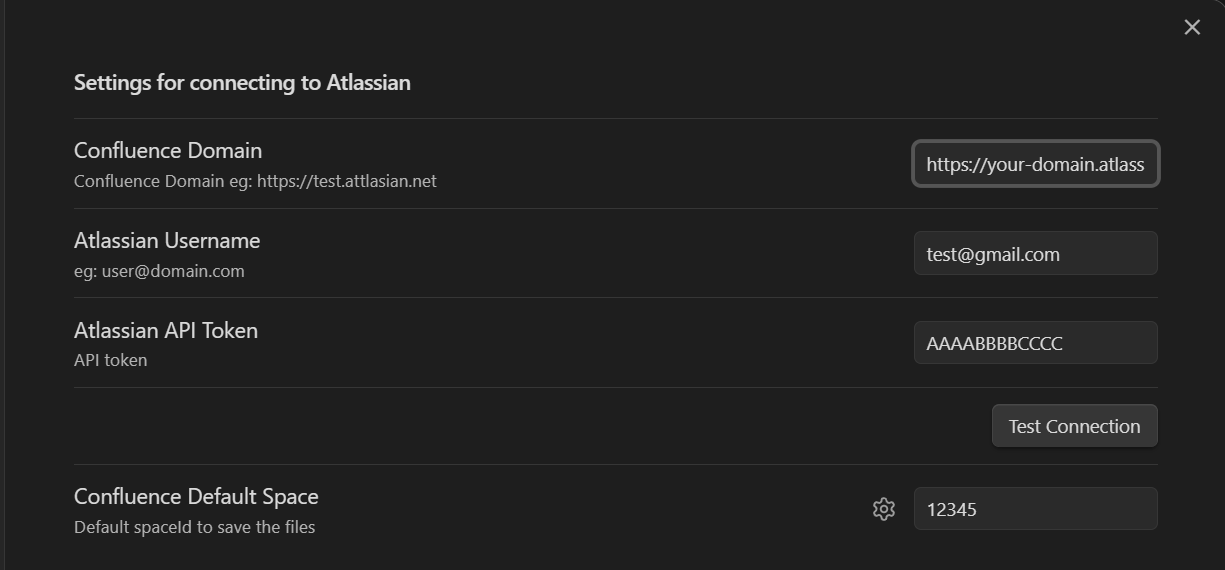
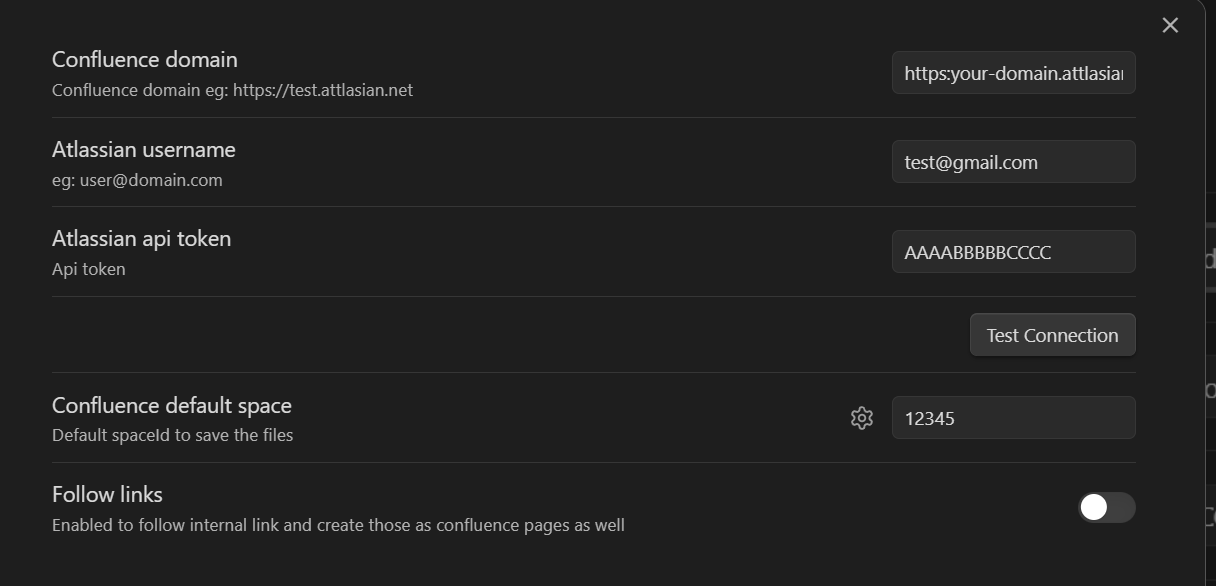
OC-14: Review changes. (#18)

diff --git a/lib/settings.ts b/lib/settings.ts
@@ -1,14 +1,14 @@
 import { App, Notice, PluginSettingTab, Setting } from "obsidian";
-import Obs2ConFluxPlugin from "main";
+import ConfluenceLinkPlugin from "main";
 
 import ConfluenceClient from "./confluence/client";
 import SpaceSearchModal from "./modal";
 import { isFloat } from "./utils";
 
-export class Obs2ConFluxSettingsTab extends PluginSettingTab {
-	plugin: Obs2ConFluxPlugin;
+export class ConfluenceLinkSettingsTab extends PluginSettingTab {
+	plugin: ConfluenceLinkPlugin;
 
-	constructor(app: App, plugin: Obs2ConFluxPlugin) {
+	constructor(app: App, plugin: ConfluenceLinkPlugin) {
 		super(app, plugin);
 		this.plugin = plugin;
 	}
@@ -17,13 +17,9 @@ export class Obs2ConFluxSettingsTab extends PluginSettingTab {
 		const { containerEl } = this;
 		containerEl.empty();
 
-		containerEl.createEl("h2", {
-			text: "Settings for connecting to Atlassian",
-		});
-
 		new Setting(containerEl)
-			.setName("Confluence Domain")
-			.setDesc("Confluence Domain eg: https://test.attlasian.net")
+			.setName("Confluence domain")
+			.setDesc("Confluence domain eg: https://test.attlasian.net")
 			.addText((text) =>
 				text
 					.setValue(this.plugin.settings.confluenceDomain)
@@ -34,7 +30,7 @@ export class Obs2ConFluxSettingsTab extends PluginSettingTab {
 			);
 
 		new Setting(containerEl)
-			.setName("Atlassian Username")
+			.setName("Atlassian username")
 			.setDesc("eg: user@domain.com")
 			.addText((text) => {
 				text.setValue(this.plugin.settings.atlassianUsername).onChange(
@@ -46,8 +42,8 @@ export class Obs2ConFluxSettingsTab extends PluginSettingTab {
 			});
 
 		new Setting(containerEl)
-			.setName("Atlassian API Token")
-			.setDesc("API token")
+			.setName("Atlassian api token")
+			.setDesc("Api token")
 			.addText((text) => {
 				text.setValue(this.plugin.settings.atlassianApiToken).onChange(
 					async (value) => {
@@ -99,7 +95,7 @@ export class Obs2ConFluxSettingsTab extends PluginSettingTab {
 		);
 
 		new Setting(containerEl)
-			.setName("Confluence Default Space")
+			.setName("Confluence default space")
 			.setDesc("Default spaceId to save the files")
 			.addExtraButton((button) => {
 				button
@@ -144,7 +140,7 @@ export class Obs2ConFluxSettingsTab extends PluginSettingTab {
 					});
 			})
 			.addText((text) => {
-				let wait: NodeJS.Timeout | null = null;
+				let wait: number | null = null;
 
 				text.setValue(
 					this.plugin.settings.confluenceDefaultSpaceId
@@ -154,10 +150,10 @@ export class Obs2ConFluxSettingsTab extends PluginSettingTab {
 						await this.plugin.saveSettings();
 					} else {
 						if (wait) {
-							clearTimeout(wait);
+							window.clearTimeout(wait);
 						}
 
-						wait = setTimeout(() => {
+						wait = window.setTimeout(() => {
 							this.display();
 							new Notice("Please enter a valid space id.");
 						}, 500);

diff --git a/lib/adaptors/properties.ts b/lib/adaptors/properties.ts
@@ -1,5 +1,5 @@
-import { load, JSON_SCHEMA } from "js-yaml";
-import { map, isArray, isDate, isEmpty } from "lodash";
+import { isEmpty } from "lodash";
+import { stringify, parse } from "yaml";
 
 export interface PropsType {
 	tags?: string | boolean | Array<string | boolean>;
@@ -28,9 +28,7 @@ export default class PropertiesAdaptor {
 
 		const existingFrontMatter = frontMatterMatch[1].trim();
 		// Parse the existing YAML front matter into an object
-		const existingFrontMatterObject = load(existingFrontMatter, {
-			schema: JSON_SCHEMA,
-		}) as { [key: string]: any };
+		const existingFrontMatterObject = parse(existingFrontMatter);
 
 		if (existingFrontMatterObject) {
 			this.properties = existingFrontMatterObject;
@@ -56,39 +54,12 @@ export default class PropertiesAdaptor {
 		}
 
 		if (!frontMatterMatch) {
-			return `---\n${this.serializeProperties()}\n---\n${str}`;
+			return `---\n${stringify(this.properties)}}\n---\n${str}`;
 		}
 
 		return str.replace(
 			frontMatterMatch[0],
-			`---\n${this.serializeProperties()}\n---\n`
+			`---\n${stringify(this.properties)}\n---\n`
 		);
-	}
-
-	private serializeProperties(): string {
-		return map(this.properties, (value, key) => {
-			if (value === undefined) {
-				return "\n";
-			} else if (key == "tags") {
-				if (isArray(value)) {
-					return `tags:\n${map(
-						value,
-						(item) => ` - \"${item}\"`
-					).join("\n")}`;
-				} else {
-					return `tags:\n - \"${value}\"`;
-				}
-			} else if (isArray(value)) {
-				return `${key}:\n${map(value, (item) => `  - "${item}"`).join(
-					"\n"
-				)}`;
-			} else if (isBoolean(value)) {
-				return `${key}: ${value}`;
-			} else if (isDate(value)) {
-				return `${key}: ${value.toISOString()}`;
-			} else {
-				return `${key}: ${value}`;
-			}
-		}).join("\n");
 	}
 }

diff --git a/main.ts b/main.ts
@@ -7,8 +7,8 @@ import {
 	MarkdownView,
 } from "obsidian";
 
-import { Obs2ConFluxSettingsTab } from "lib/settings";
-import { Obs2ConFluxSettings } from "lib/confluence/types";
+import { ConfluenceLinkSettingsTab } from "lib/settings";
+import { ConfluenceLinkSettings } from "lib/confluence/types";
 
 import ConfluenceClient from "lib/confluence/client";
 import PropertiesAdaptor from "lib/adaptors/properties";
@@ -16,13 +16,13 @@ import FileAdaptor from "lib/adaptors/file";
 import SpaceSearchModal from "lib/modal";
 import { toBlob, toPng } from "html-to-image";
 
-export default class Obs2ConFluxPlugin extends Plugin {
-	settings: Obs2ConFluxSettings;
+export default class ConfluenceLink extends Plugin {
+	settings: ConfluenceLinkSettings;
 
 	async onload() {
 		await this.loadSettings();
 
-		this.addSettingTab(new Obs2ConFluxSettingsTab(this.app, this));
+		this.addSettingTab(new ConfluenceLinkSettingsTab(this.app, this));
 
 		// Register commands
 		this.addCommand({
@@ -119,7 +119,6 @@ export default class Obs2ConFluxPlugin extends Plugin {
 			spaceId as string,
 			followLinks
 		).convertObs2Adf(fileData, filePath || "");
-		console.log(adf);
 
 		client.page.updatePage({
 			pageId: props.properties.pageId as string,

diff --git a/lib/confluence/types.ts b/lib/confluence/types.ts
@@ -1,4 +1,4 @@
-export interface Obs2ConFluxSettings {
+export interface ConfluenceLinkSettings {
 	confluenceDomain: string;
 	atlassianUsername: string;
 	atlassianApiToken: string;

diff --git a/lib/adaptors/file.ts b/lib/adaptors/file.ts
@@ -36,7 +36,6 @@ export default class FileAdaptor {
 			new Component()
 		);
 
-		console.log(container);
 		return await this.htmlToAdf(container, path);
 	}
 

diff --git a/README.md b/README.md
@@ -1,6 +1,6 @@
-## Obs2Con Flux
+## Confluence Link
 
-Welcome to the `Obs2Con Flux` project. The objective of this project is to make it easy to write documentation on Obsidian and quicky create a Confluence page to share with you team members.
+Welcome to the `Confluence Link` project. The objective of this project is to make it easy to write documentation on Obsidian and quicky create a Confluence page to share with you team members.
 
 ## Setting things up
 
@@ -15,12 +15,14 @@ Welcome to the `Obs2Con Flux` project. The objective of this project is to make 
 
 2. (Optional) Open the default obsidian hotkeys settings:
 
--   search for `Obs2Con Flux`
+-   search for `confluence-link`
 -   add hotkeys
+
+![Hotkeys](./images/hotkeys.png)
 
 ## Usage
 
 1. Open a md file
 2. Press the hotkey set at step 2 in [Settings things up](#Setting-things-up) section or use the command pallet (`Ctrl/Cmd + P` ) and search for `Obs2Con Flux` commands to execute
 
-![Commands](./images/commnads.png)
+![Commands](./images/commands.png)
